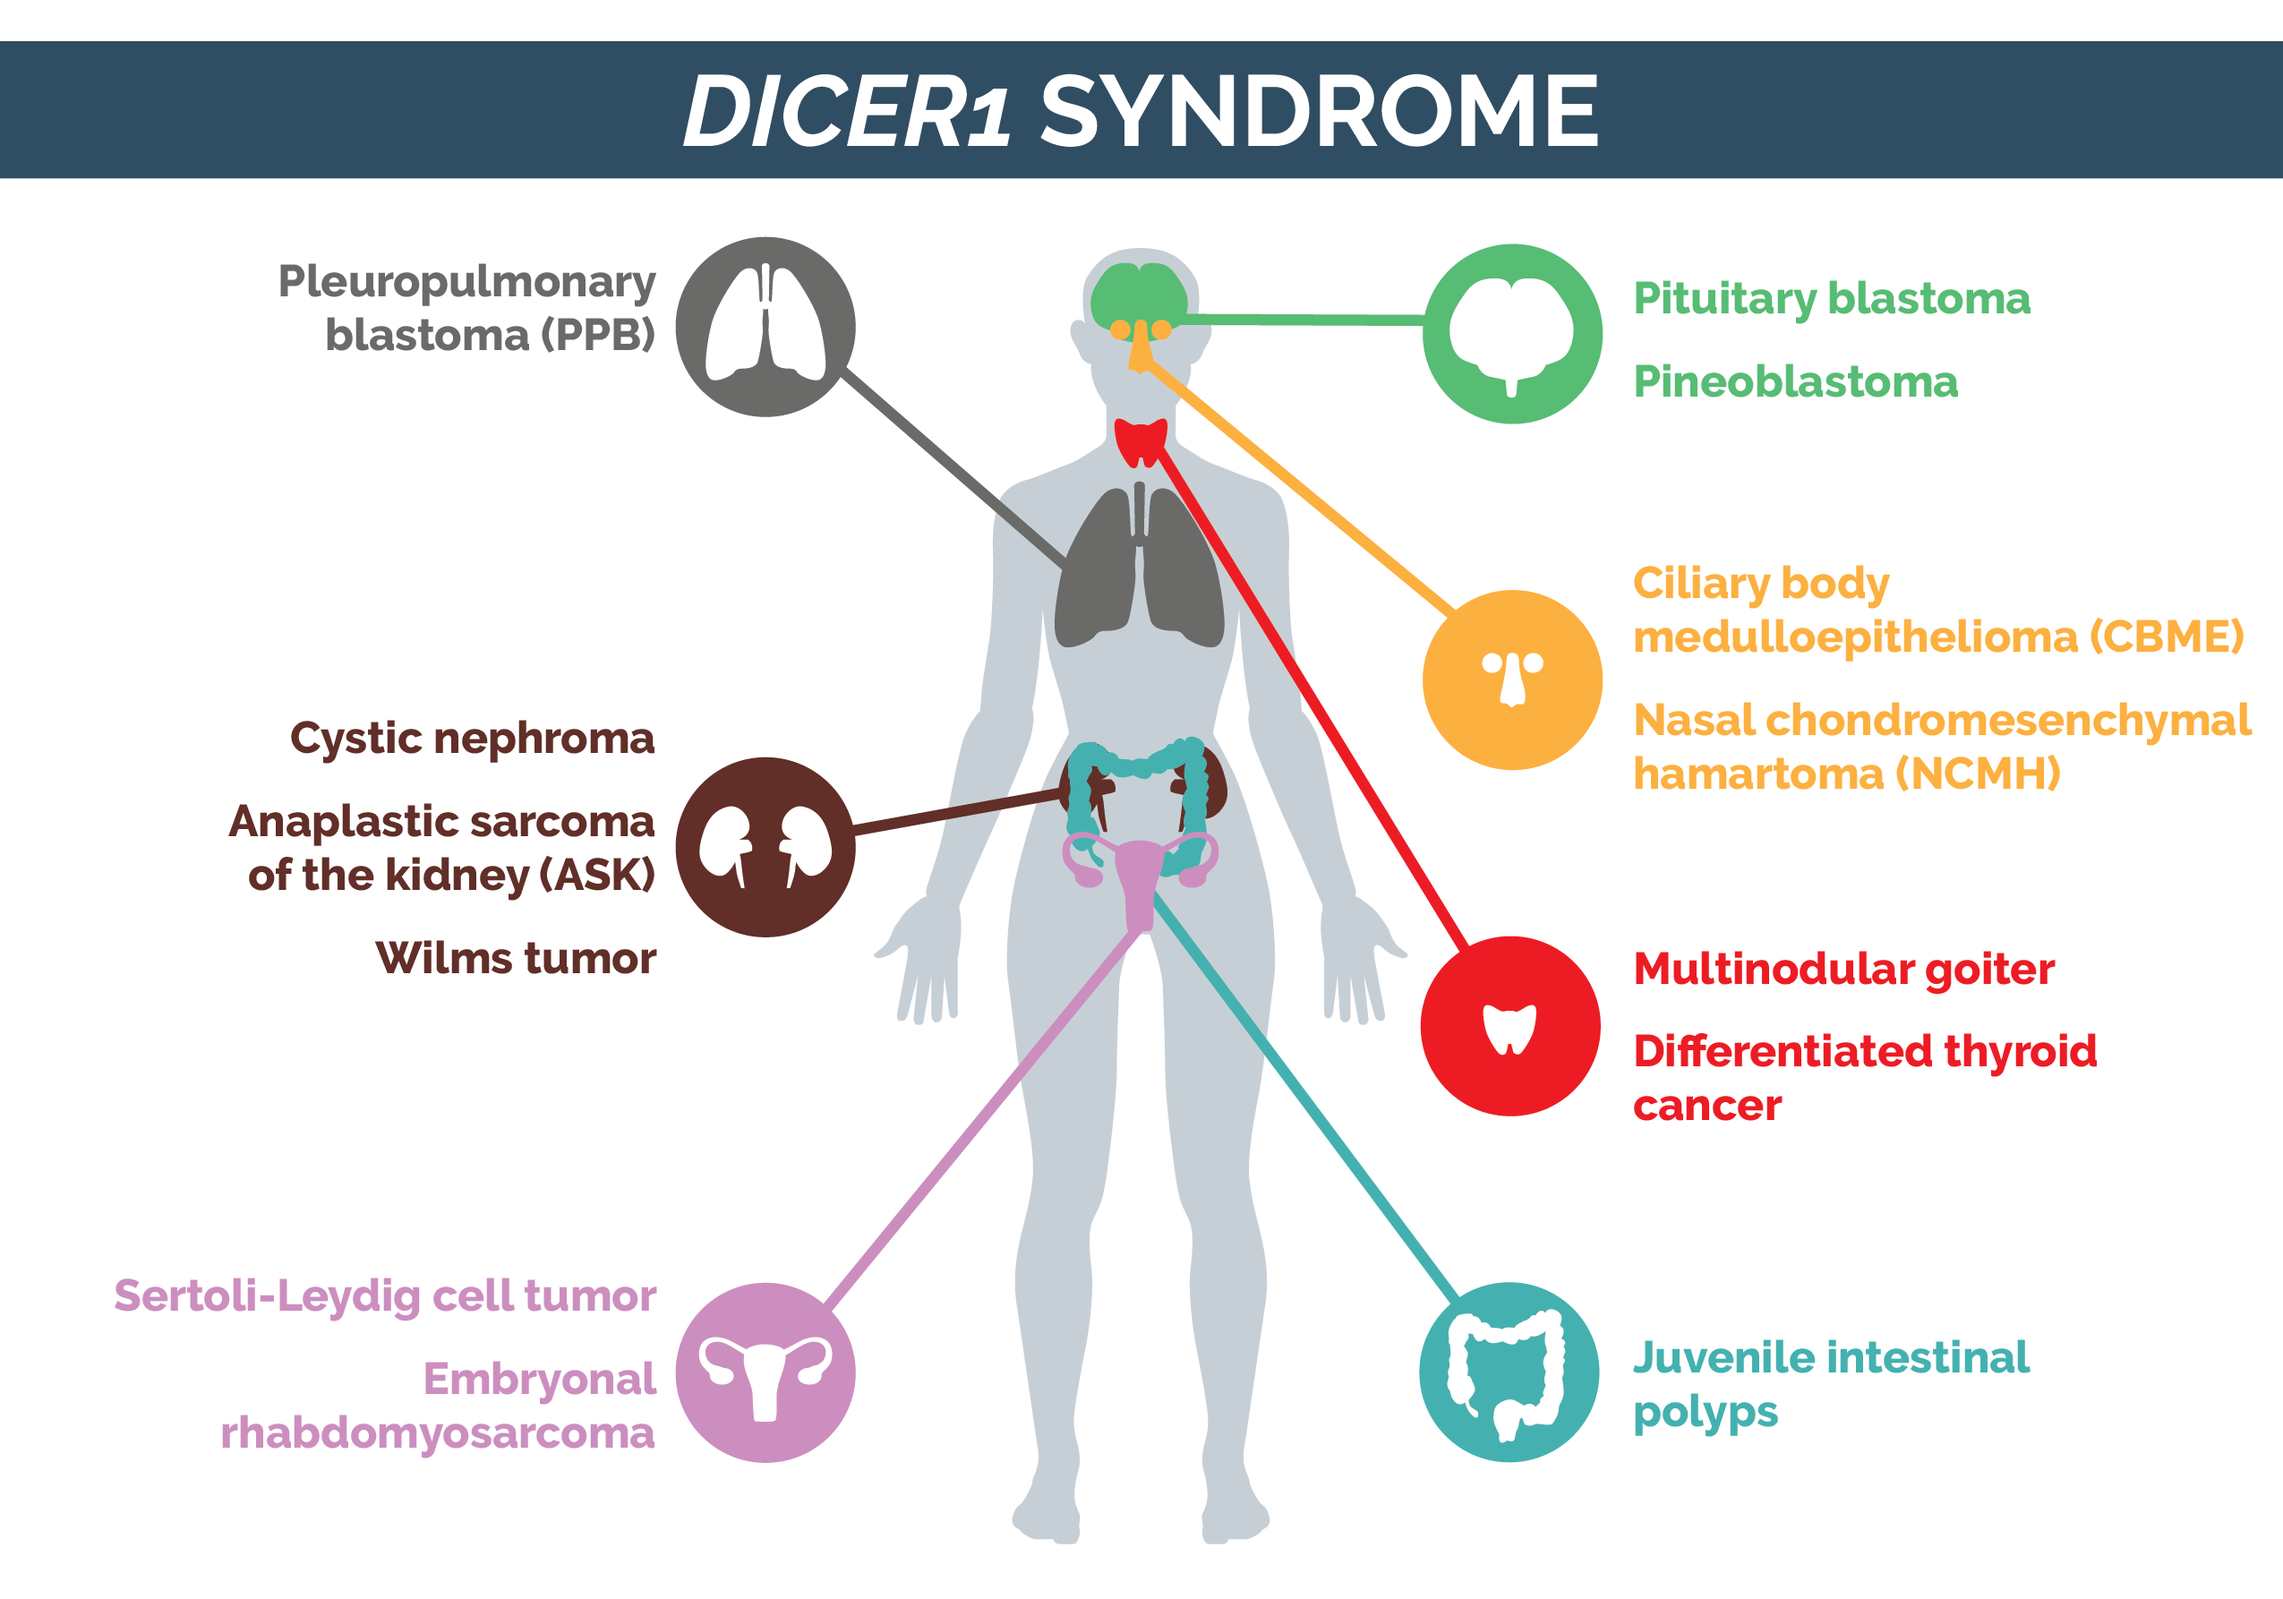
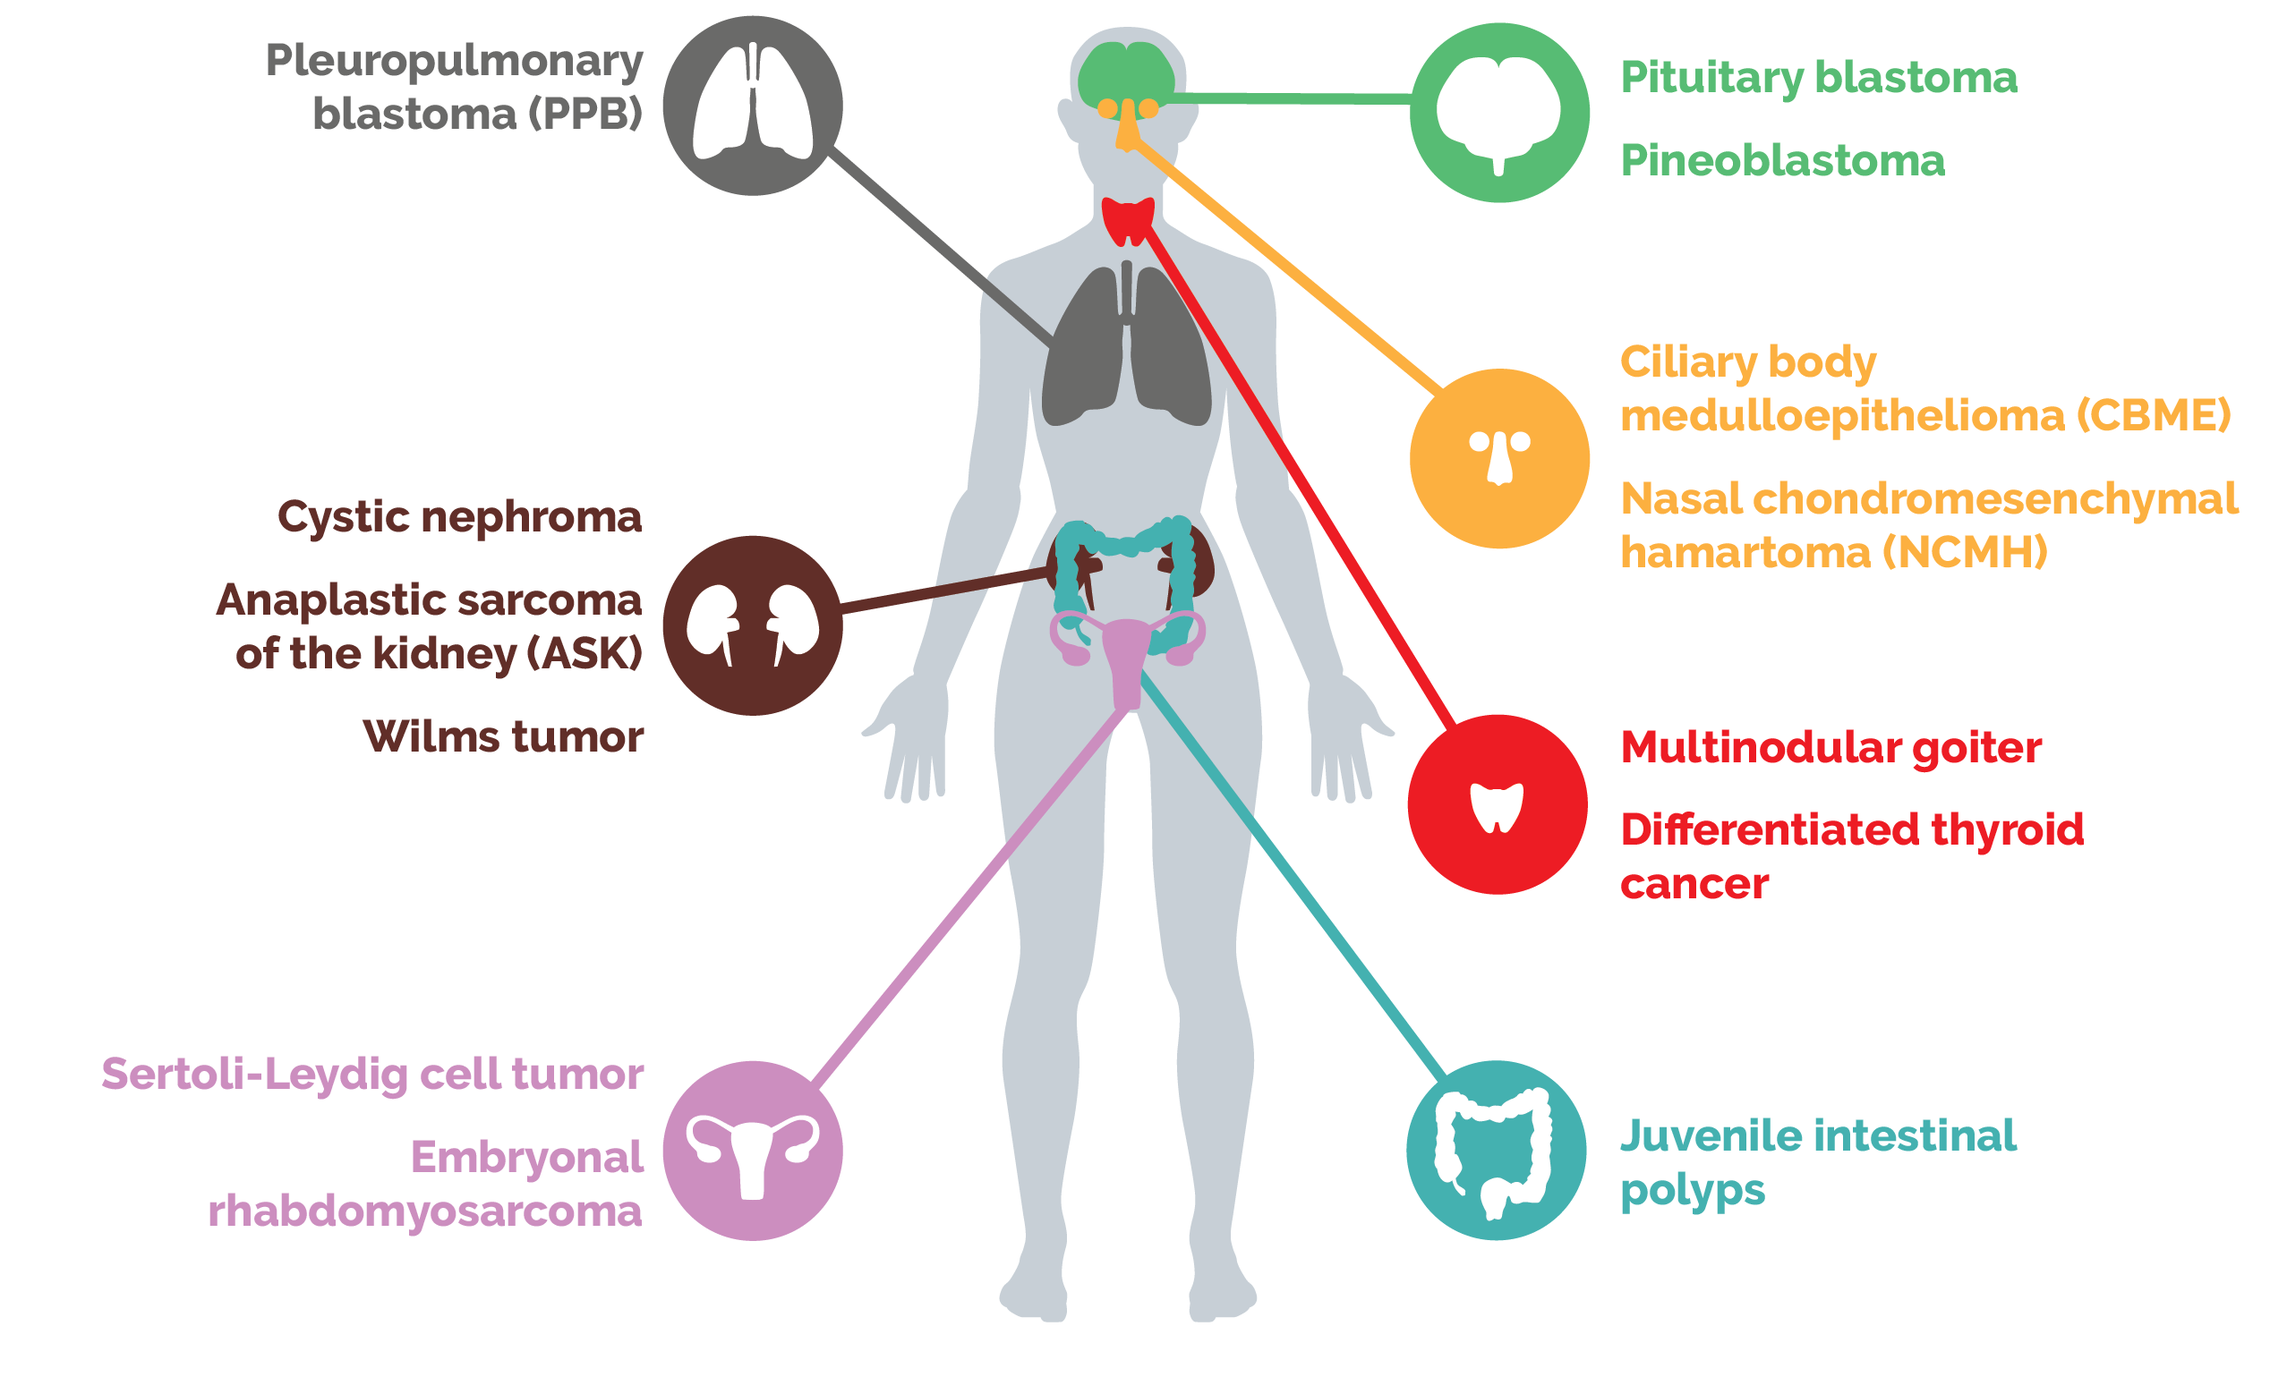
update research page

diff --git a/layouts/about/list.html b/layouts/about/list.html
@@ -3,12 +3,36 @@
 {{ partial "page-title.html" . }}
 
 {{ "<!-- Company Description Section Start -->" | safeHTML }}
+
 <section class="company-description">
     <div class="container">
         <div class="row">
-            <div class="col-md-6 wow fadeInLeft" data-wow-delay=".3s">
-                {{ with .Site.Data.about.image }}<img src="{{ . | absURL }}" alt="" class="img-fluid">{{ end }}
+          <div class="col-md-7">
+            <div class="block">
+              {{ with .Site.Data.about.title }}
+              <h2 class="subtitle wow fadeInUp animated" data-wow-delay=".3s" data-wow-duration="500ms">
+                {{ . | safeHTML }}
+              </h2>
+              {{ end }}
+              {{ with .Site.Data.about.description }}
+              <p class="wow fadeInUp animated" data-wow-delay=".5s" data-wow-duration="500ms">
+                {{ . | safeHTML }}
+              </p>
+              {{ end }}
             </div>
+          </div>
+
+            {{ with .Site.Data.about.image }}
+            <div class="col-md-5 wow fadeInLeft" data-wow-delay=".3s">
+                <div class="block">
+                    <img class="img-fluid" src="{{ . | absURL }}" alt="about-image">
+                </div>
+            </div>
+            {{ end }}
+
+        </div>
+<!--
+        <div class="row">
             <div class="col-md-6">
                 <div class="block">
                     {{ with .Site.Data.about.title }}<h3 class="subtitle wow fadeInUp" data-wow-delay=".3s" data-wow-duration="500ms">{{ . }}</h3>{{ end }}
@@ -19,32 +43,53 @@
                     {{ end }}
                 </div>
             </div>
-        </div>
+          </div>
+-->
     </div>
 </section>
 
 {{ "<!--  Company Feature Section Start -->" | safeHTML }}
-<section class="about-feature clearfix">
-    <div class="container-fluid">
+
+<section class="company-description">
+    <div class="container">
+      {{ range .Site.Data.about.aboutItem }}
         <div class="row">
-            {{ range $index, $element := .Site.Data.about.aboutItem }}
-            <div class="col-lg-4 px-0">
-                {{ $class := add $index 1 }}
-                <div class="block about-feature-{{ $class }} wow fadeInDown" data-wow-duration="500ms" data-wow-delay=".3s">
-                    {{ with .title }}<h2>{{ . | safeHTML}}</h2>{{ end }}
-                    {{ with .description }}<p>{{ . | safeHTML }}</p>{{ end }}
+            <div class="col-md-5 wow fadeInLeft" data-wow-delay=".3s">
+                {{ with .image }}<img src="{{ . | absURL }}" alt="" class="img-fluid">{{ end }}
+            </div>
+            <div class="col-md-7">
+                <div class="block">
+                    {{ with .title }}<h4 class=" wow fadeInUp" data-wow-delay=".3s" data-wow-duration="500ms">{{ . | safeHTML }}</h3>{{ end }}
+                    {{ with .description }}
+                    <p class="subtitle-des wow fadeInUp" data-wow-delay=".5s" data-wow-duration="500ms">
+                        {{ . | safeHTML }}
+                    </p>
+                    {{ end }}
                 </div>
             </div>
-            {{ end }}
         </div>
+        <div class="row">
+          <div class="col-md-10">
+            <h1>&nbsp;</h1>
+            <h1>&nbsp;</h1>
+            <h1>&nbsp;</h1>
+            </div>
+        </div>
+        <!--<img src="static/images/icons/close.png" class="img-fluid" />-->
+        {{ end }}
     </div>
 </section>
+
+
+
+
+
 {{ "<!--  Company Feature Section End -->" | safeHTML }}
 
-{{ partial "sponsors.html" . }}
+{{ partial "team.html" . }}
+
+{{ partial "clients.html" . }}
 
 {{ partial "cta.html" . }}
-
-<!-- {{ partial "team.html" . }} -->
 
 {{ partial "footer.html" . }}
